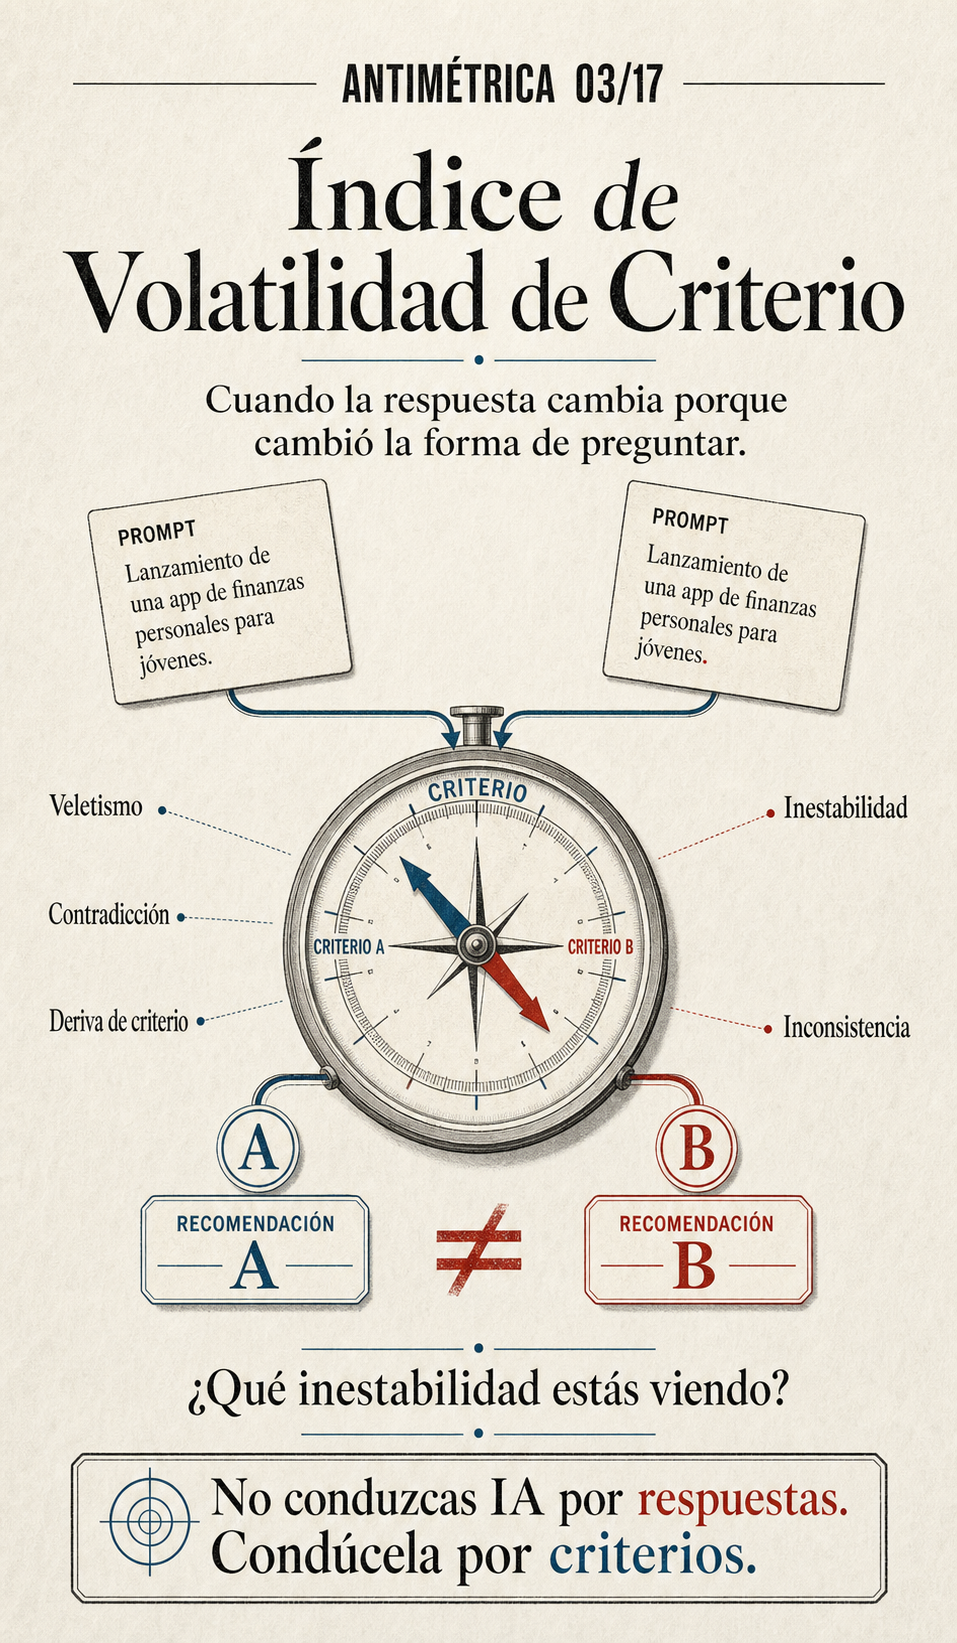
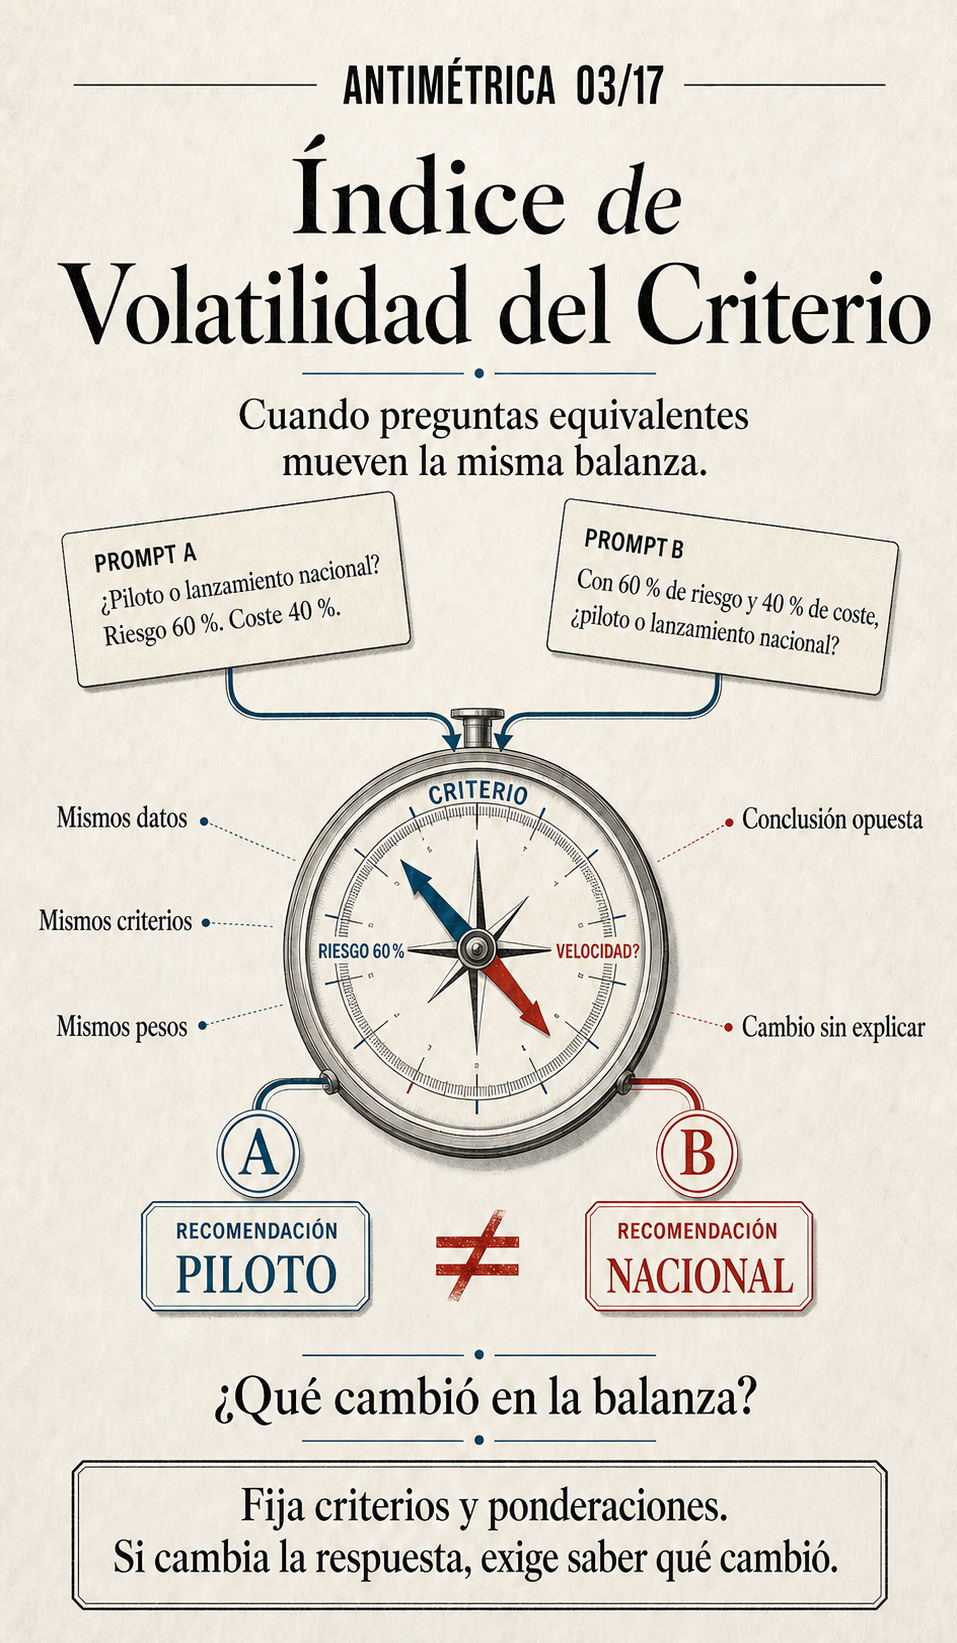
revise Antimetrics post texts

diff --git a/content/antimetricas/03-indice-de-volatilidad-de-criterio/post.md b/content/antimetricas/03-indice-de-volatilidad-de-criterio/post.md
@@ -1,27 +1,31 @@
-"Donde dije digo, digo Diego."
+“Donde dije digo, digo Diego.”
 
-Y si el refrán hubiera conocido ChatGPT, quizá habría añadido:
+Si el refrán hubiera conocido ChatGPT, quizá habría añadido: “Donde dije A, digo B si me lo preguntas con otras palabras”.
 
-"Donde dije A, digo B si me lo preguntas con otras palabras."
-
-Le preguntas a la IA qué opción conviene.
-
-Te recomienda A con seguridad de notario.
-
-Reformulas apenas la pregunta, sin cambiar el fondo, y ahora recomienda B con la misma cara de haberlo tenido clarísimo desde siempre.
-
-Todo muy razonado. Todo muy convincente. Todo muy según sople el prompt.
-
-Las métricas aburridas dirían: "Respondió dos veces con alta fluidez." La antimétrica pregunta otra cosa: ¿usó el mismo criterio o solo defendió la última frase que le pusiste delante?
+Le preguntas a la IA qué opción conviene y recomienda A con seguridad de notario. Cuando reformulas la pregunta sin cambiar el fondo, pasa a recomendar B y lo justifica con la misma convicción, como si ese hubiera sido siempre su criterio. Las dos respuestas parecen razonadas, pero la recomendación depende de la formulación del prompt más de lo que la IA reconoce.
 
 ANTIMÉTRICA 03/17: Índice de Volatilidad de Criterio.
 
-Cuando la IA cambia de criterio porque cambiaste la forma de preguntar. No es que ajustar una respuesta esté mal. A veces reformular mejora el análisis.
+Esta antimétrica describe los casos en los que consultas equivalentes producen recomendaciones incompatibles porque los criterios de evaluación, o la importancia concedida a cada uno, cambian sin una explicación expresa.
 
-El problema es cuando la IA no conserva un marco estable: hoy pesa el costo, mañana pesa la velocidad, pasado pesa el tono, y nunca avisa que cambió la balanza. Entonces no estás comparando opciones. Estás persiguiendo una veleta con traje de consultor.
+Una respuesta distinta no demuestra por sí sola que exista volatilidad. La reformulación puede aclarar el problema, aportar un matiz relevante o hacer visible información que antes no se había considerado. También es razonable modificar una conclusión cuando aparecen datos nuevos. El fallo se encuentra en otro lugar: los datos y las condiciones permanecen estables, pero la IA altera el marco con el que los interpreta.
 
-Donde dije digo, digo Diego.
+En una respuesta puede presentar el costo como la variable decisiva y, en la siguiente, dar prioridad a la velocidad. Si después se le pide que compare ambas recomendaciones, es posible que construya una explicación retrospectiva que haga parecer coherente el cambio. No reconoce que movió la balanza; adapta la justificación a la conclusión más reciente.
 
-Versión oficina:
+Una forma de comprobarlo consiste en definir los criterios antes de solicitar la recomendación y asignarles una ponderación. Después se puede formular la misma decisión de otra manera y comparar no solo las conclusiones, sino también las variables utilizadas y el peso que reciben. Si la recomendación cambia, la pregunta útil es: “¿Qué dato, criterio o ponderación hizo cambiar la conclusión?”.
 
-"Ayer era urgente. Hoy era mala idea. Mañana veremos quién lo pidió."
+Este fallo puede recibir distintos nombres. Cada término permite reconocer una de sus manifestaciones:
+
+- Volatilidad de criterio: describe la falta de estabilidad del marco empleado para decidir.
+
+- Índice de veletismo: destaca el cambio de dirección según cómo sople el prompt.
+
+- Tasa de contradicción: se concentra en la incompatibilidad entre las respuestas obtenidas.
+
+- Deriva de criterio: señala el desplazamiento del marco de evaluación sin una advertencia explícita.
+
+- Inestabilidad de respuesta: identifica el efecto observable cuando una reformulación equivalente no conserva el sentido de la respuesta anterior.
+
+- Índice de inconsistencia: describe una falta de continuidad lógica que se repite y empieza a formar un patrón.
+
+- Síndrome del “depende de cómo me lo preguntes”: expresa el problema en el lenguaje cotidiano de quien lo experimenta.

diff --git a/content/antimetricas/02-tasa-de-delegacion-inversa/post.md b/content/antimetricas/02-tasa-de-delegacion-inversa/post.md
@@ -10,8 +10,6 @@ Puede pedir información que ya recibió, decisiones de bajo riesgo que podía a
 
 Para detectarlo, hay que separar las dudas verdaderamente bloqueantes de las que pueden resolverse leyendo, inspeccionando los recursos disponibles o declarando un supuesto razonable. La IA debería avanzar con lo que tiene y explicar solo aquello que impide continuar.
 
-Versión oficina:
-
 “Te lo delego para que me digas qué tengo que hacer yo.”
 
 Esta devolución del trabajo puede reconocerse con varios nombres:
@@ -25,5 +23,3 @@ Esta devolución del trabajo puede reconocerse con varios nombres:
 - Índice de escaqueo: la IA parece esquivar la responsabilidad de actuar.
 
 - Ratio de delegación al cliente: el supuesto asistente termina tratando al usuario como si fuera su asistente.
-
-Las distintas expresiones permiten precisar si regresó el entregable, la carga, el esfuerzo, la responsabilidad o la propia función de asistencia.

diff --git a/content/antimetricas/01-indice-de-verborragia/post.md b/content/antimetricas/01-indice-de-verborragia/post.md
@@ -14,8 +14,6 @@ Para comprobarlo, conviene pedir primero el resultado útil y solicitar después
 
 “Mucho ruido y pocas nueces.”
 
-Versión oficina:
-
 “Esto pudo ser una línea.”
 
 Este exceso puede recibir distintos nombres. Cada uno señala una forma particular de producir demasiado texto para el valor que entrega:
@@ -29,5 +27,3 @@ Este exceso puede recibir distintos nombres. Cada uno señala una forma particul
 - Inflación verbal: describe una idea sencilla agrandada con lenguaje grandilocuente.
 
 - Costo de síntesis humana: nombra el trabajo que debe hacer la persona para condensar lo que la IA no supo resumir.
-
-Las palabras elegidas permiten distinguir si el problema está en las vueltas, el relleno, la grandilocuencia o el trabajo de síntesis transferido al usuario.

diff --git a/content/antimetricas/15-peaje-de-clarificacion/post.md b/content/antimetricas/15-peaje-de-clarificacion/post.md
@@ -14,8 +14,6 @@ Para detectarlo, conviene pedir que distinga entre una duda bloqueante y una dec
 
 “Preguntar también puede ser una forma de devolver trabajo.”
 
-Versión oficina:
-
 “Te pregunto para confirmar que debo leer el correo.”
 
 Las preguntas que cobran atención sin hacer avanzar el trabajo pueden recibir estos nombres:
@@ -29,5 +27,3 @@ Las preguntas que cobran atención sin hacer avanzar el trabajo pueden recibir e
 - Índice de dependencia decisional: necesita al usuario para cada microdecisión.
 
 - Tasa de preguntas perezosas: pregunta para evitar leer, mirar o inferir.
-
-Estas expresiones distinguen la falta de utilidad, el exceso de interrogación, la ausencia de iniciativa, la dependencia del usuario y la negativa a examinar el contexto.

diff --git a/content/antimetricas/05-brecha-promesa-entrega/post.md b/content/antimetricas/05-brecha-promesa-entrega/post.md
@@ -12,8 +12,6 @@ Para comprobar la brecha, conviene comparar cada compromiso con una evidencia co
 
 “Prometer y no cumplir, mil veces lo vi.”
 
-Versión oficina:
-
 “Te vendieron estrategia y te entregaron una diapositiva con entusiasmo.”
 
 La distancia entre promesa y resultado puede recibir varios nombres:
@@ -27,5 +25,3 @@ La distancia entre promesa y resultado puede recibir varios nombres:
 - Índice de promesa vacía: el compromiso verbal carece de respaldo operativo.
 
 - Brecha entre discurso y desempeño: la narrativa de capacidad supera la evidencia del trabajo.
-
-Cada término sitúa el problema en un punto diferente: la promesa, el compromiso, la correspondencia con el pedido, el respaldo operativo o la distancia general entre lo dicho y lo hecho.

diff --git a/content/antimetricas/11-indice-de-retrabajo/post.md b/content/antimetricas/11-indice-de-retrabajo/post.md
@@ -12,8 +12,6 @@ La rapidez de generación puede celebrarse antes de calcular la deuda que deja. 
 
 “Machacar en hierro frío, tiempo y trabajo perdido.”
 
-Versión oficina:
-
 “Ya está listo. Solo falta rehacerlo.”
 
 El trabajo que reaparece después de la entrega puede recibir estos nombres:
@@ -27,5 +25,3 @@ El trabajo que reaparece después de la entrega puede recibir estos nombres:
 - Ratio de reprocesamiento: el flujo avanza principalmente a fuerza de rehacer.
 
 - Costo de reincidencia: el mismo defecto vuelve y cobra tiempo en cada ronda.
-
-Los nombres permiten localizar el problema en la repetición del trabajo, la deuda acumulada, el fracaso de la primera entrega, el funcionamiento del proceso o la reincidencia de un defecto.

diff --git a/content/antimetricas/17-indice-de-desvario/post.md b/content/antimetricas/17-indice-de-desvario/post.md
@@ -14,8 +14,6 @@ La revisión no debe limitarse a errores ortográficos o datos falsos. También 
 
 “No estaba mal escrito. Estaba en otra película.”
 
-Versión oficina:
-
 “No sé qué pasó, pero esto llegó con sombrero de copa.”
 
 La rareza inexplicable puede recibir varios nombres:
@@ -29,5 +27,3 @@ La rareza inexplicable puede recibir varios nombres:
 - Frecuencia de salidas aberrantes: registra resultados claramente desviados de la tarea.
 
 - Tasa de rareza injustificada: no existe una razón visible para la desviación.
-
-Estos términos ayudan a distinguir la sensación inicial de extrañeza, la ruptura del comportamiento esperado, la asociación incomprensible, la desviación manifiesta y la ausencia de una explicación.

diff --git a/content/antimetricas/08-indice-de-verificacion-fingida/post.md b/content/antimetricas/08-indice-de-verificacion-fingida/post.md
@@ -14,8 +14,6 @@ Una verificación debe dejar rastros. Si la IA no puede proporcionar la fuente, 
 
 “Del dicho al hecho hay mucho trecho.”
 
-Versión oficina:
-
 “Lo revisé” significa “lo miré de lejos y sonaba bien”.
 
 La simulación de haber comprobado algo puede recibir estos nombres:
@@ -29,5 +27,3 @@ La simulación de haber comprobado algo puede recibir estos nombres:
 - Tasa de evidencia imaginaria: menciona o presupone pruebas que no existen.
 
 - Índice de falsa comprobación: presenta como verificado aquello que no fue comprobado.
-
-Las denominaciones separan la búsqueda inexistente, la imitación del conocimiento, el tono de autoridad, la evidencia inventada y la afirmación falsa de haber verificado.

diff --git a/content/antimetricas/14-indice-de-amnesia-contextual/post.md b/content/antimetricas/14-indice-de-amnesia-contextual/post.md
@@ -14,8 +14,6 @@ Antes de ejecutar, se le puede pedir que enumere las restricciones relevantes y 
 
 “Contexto que no cambia la respuesta es decoración.”
 
-Versión oficina:
-
 “Te escuché perfectamente. Ahora explícame otra vez desde cero.”
 
 La falta de uso del contexto puede describirse así:
@@ -29,5 +27,3 @@ La falta de uso del contexto puede describirse así:
 - Déficit de integración: conserva datos, pero no los utiliza para decidir.
 
 - Tasa de contexto desperdiciado: la información aportada no produce ningún efecto en el resultado.
-
-Los nombres permiten diferenciar la separación del marco, la falta de escucha, la ruptura del proceso, la ausencia de integración y el desperdicio de información útil.

diff --git a/content/antimetricas/06-indice-de-disculpa-vacia/post.md b/content/antimetricas/06-indice-de-disculpa-vacia/post.md
@@ -14,8 +14,6 @@ Después de una disculpa conviene pedir tres cosas: el cambio concreto, una expl
 
 “Palabras sin obras se venden barato.”
 
-Versión oficina:
-
 “No volverá a pasar, versión 7.”
 
 Las disculpas sin reparación pueden distinguirse con estos nombres:
@@ -29,5 +27,3 @@ Las disculpas sin reparación pueden distinguirse con estos nombres:
 - Tasa de contrición estéril: reconoce el fallo sin modificar la conducta.
 
 - Índice de cortesía sin corrección: la amabilidad tapa la ausencia de una reparación.
-
-El vocabulario permite separar la repetición del error, el teatro de responsabilidad, el desequilibrio entre palabras y cambios, la falta de aprendizaje y el uso de la cortesía como cobertura.

diff --git a/content/antimetricas/07-indice-de-obediencia-inversa/post.md b/content/antimetricas/07-indice-de-obediencia-inversa/post.md
@@ -14,8 +14,6 @@ Antes de actuar, conviene separar expresamente lo que debe hacerse de lo que no 
 
 “Hacer caso no siempre es entender.”
 
-Versión oficina:
-
 “Hice exactamente lo que pediste, salvo lo que importaba.”
 
 Esta inversión puede describirse de varias maneras:
@@ -29,5 +27,3 @@ Esta inversión puede describirse de varias maneras:
 - Índice de desalineación inicial: el desvío aparece desde la primera acción.
 
 - Tasa de prioridad ignorada: la instrucción principal queda relegada frente a tareas menores.
-
-Los nombres permiten determinar si se invirtió el orden, se obedeció solo en apariencia, se perdió la intención, se empezó mal o se ignoró una prioridad concreta.
